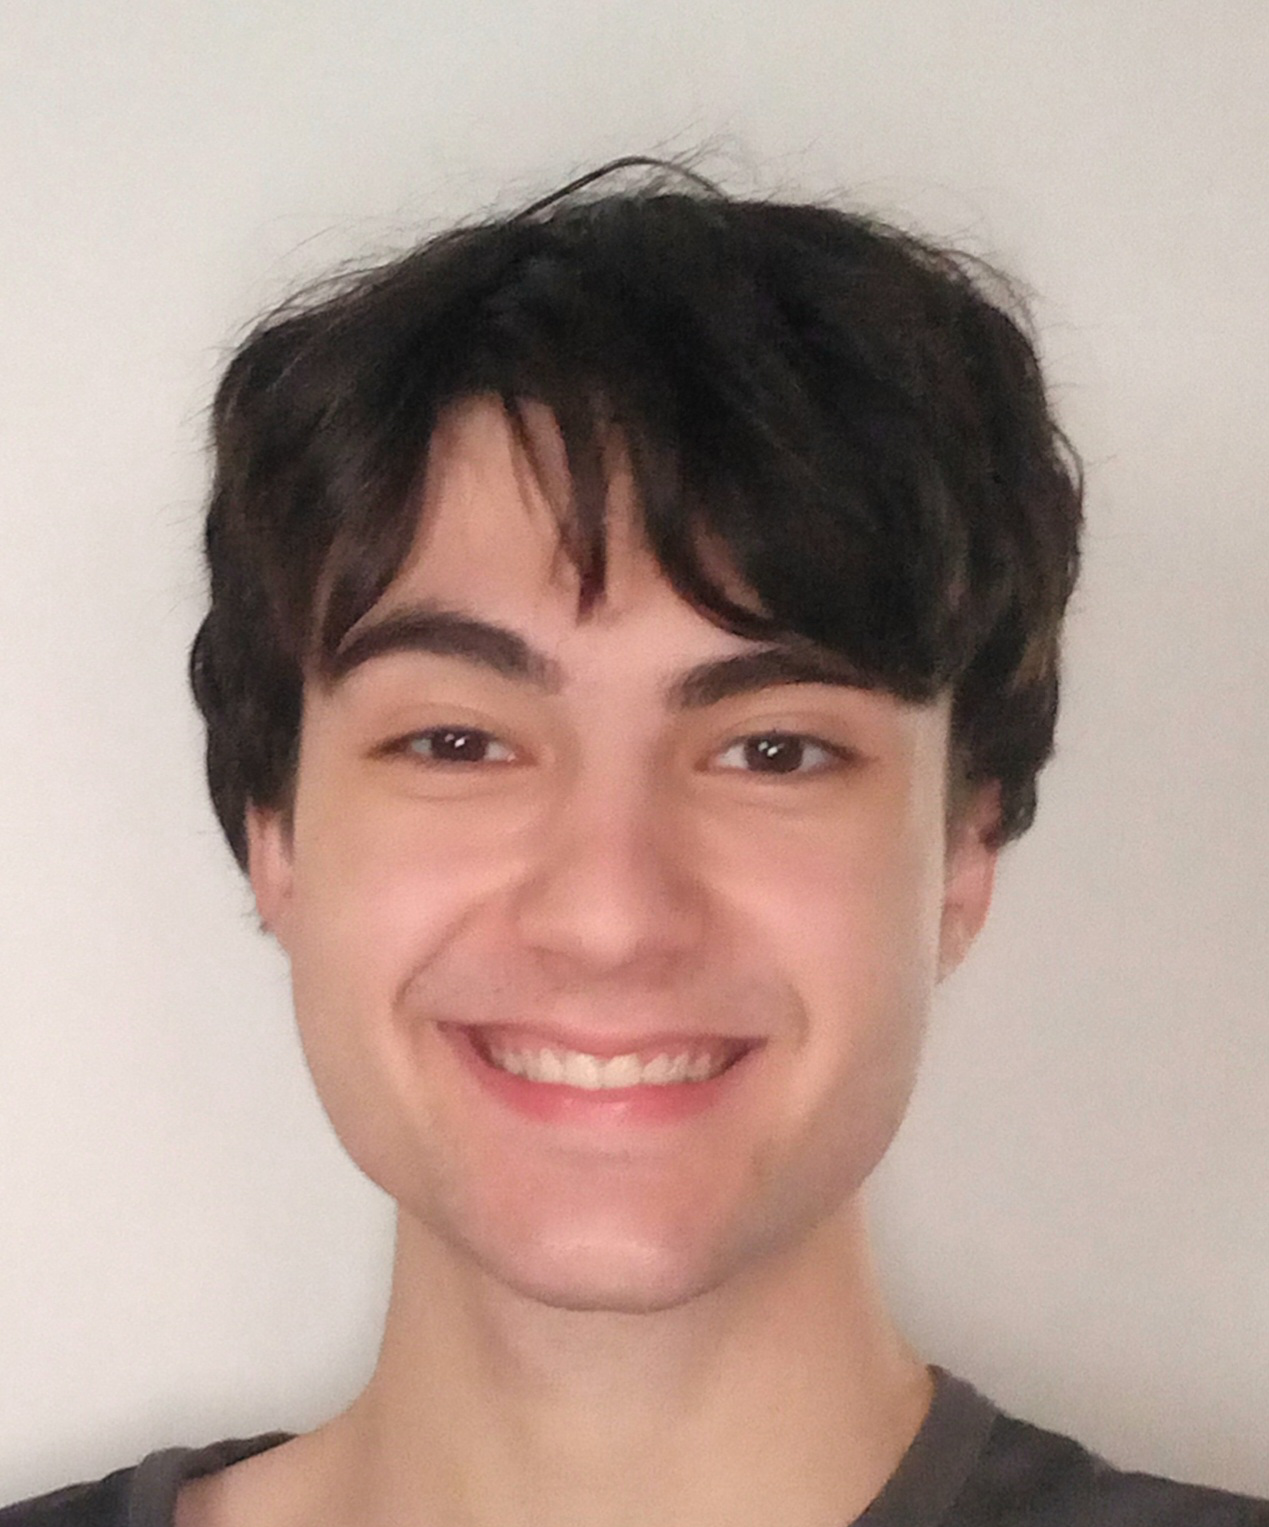
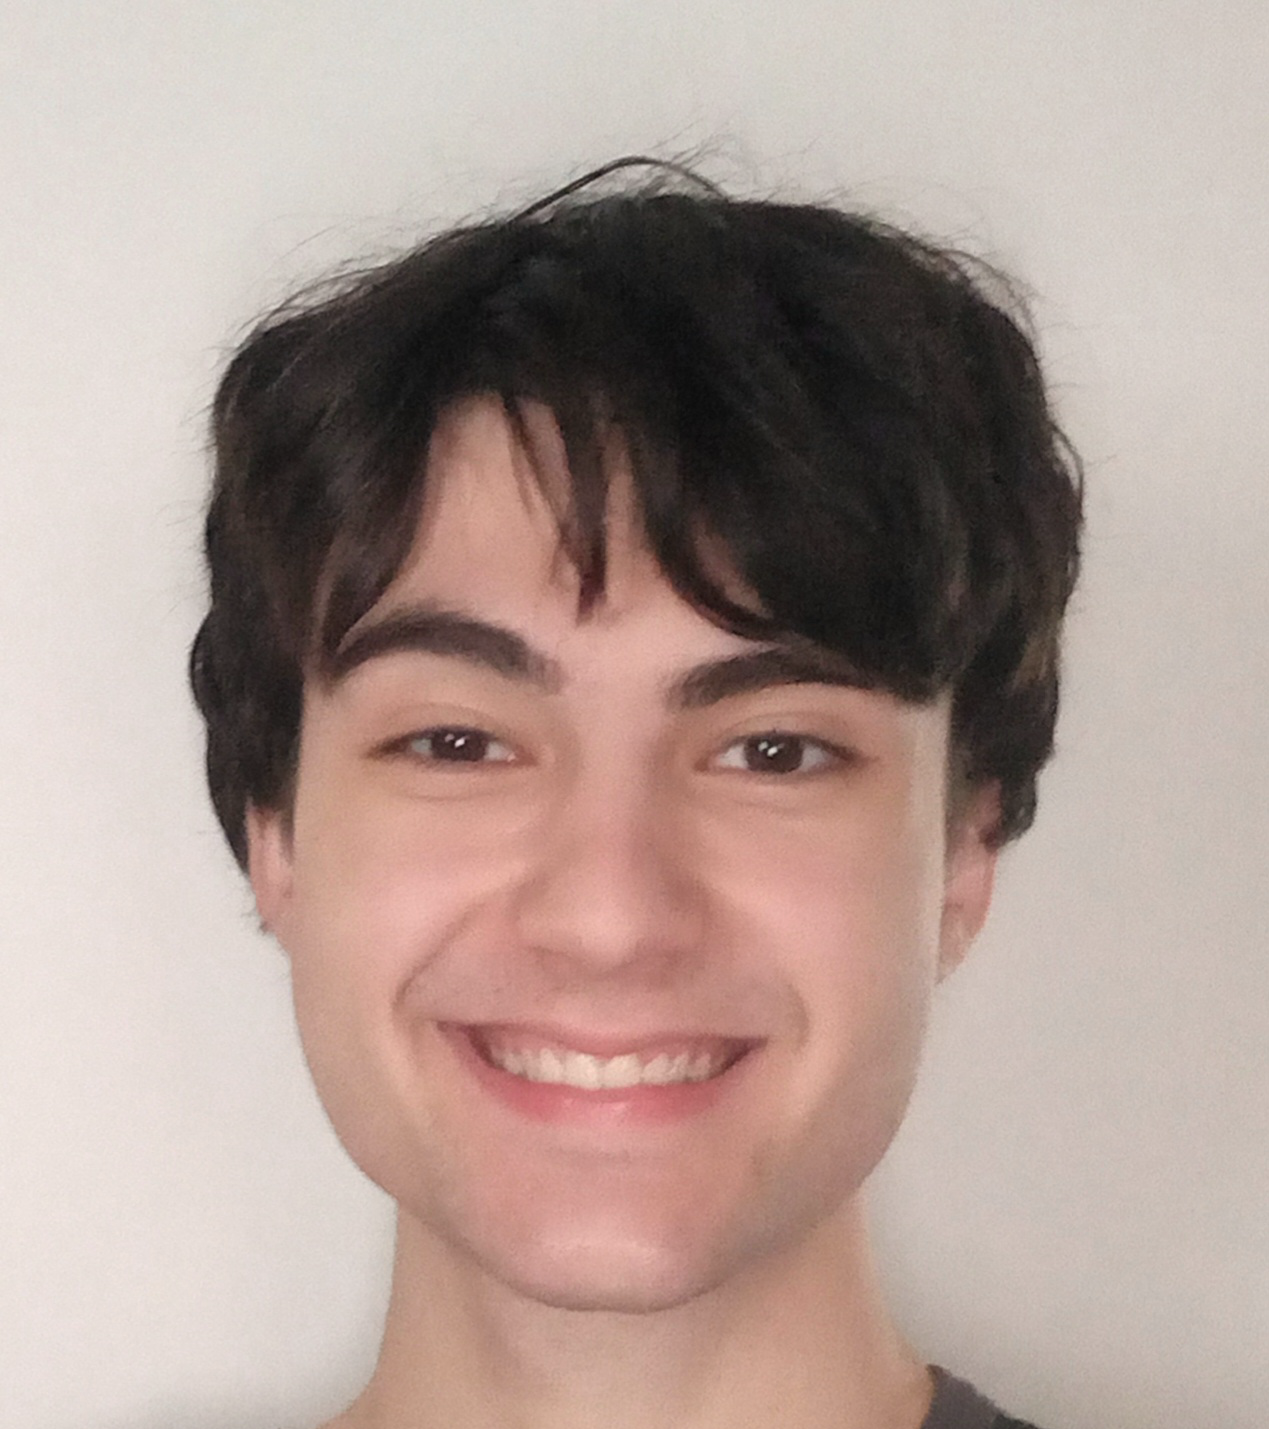
ajustando tamanho das caixas de certificado denovo, ajustando ft de perfil, arrumando tradução bugada

Changed region(s): [[0.0, 0.0924, 1.0, 1.0], [0.3688, 0.9237, 0.3995, 0.9853]]

diff --git a/index.html b/index.html
@@ -207,18 +207,18 @@
         }
 
         .education-item-with-cert.large {
-            padding: 20px;
-            min-height: 120px;
-        }
-
-        .education-item-with-cert.medium {
             padding: 15px;
             min-height: 90px;
         }
 
-        .education-item-with-cert.small {
+        .education-item-with-cert.medium {
             padding: 10px;
-            min-height: 70px;
+            min-height: 60px;
+        }
+
+        .education-item-with-cert.small {
+            padding: 5px;
+            min-height: 40px;
         }
 
         .education-content {
@@ -310,7 +310,7 @@
         </div>
 
         <header>
-            <img src="foto-perfil.jpg" alt="Foto de Kelvin Krauss" class="profile-photo" id="profile-photo">
+            <img src="foto-perfil.png" alt="Foto de Kelvin Krauss" class="profile-photo" id="profile-photo">
             <h1>Kelvin Krauss</h1>
             <p class="subtitle">Bacharelando em Ciência da Computação</p>
             
@@ -321,6 +321,10 @@
 
             <div class="professional-objective">
                 <p>Sou estudante de Ciências da Computação no Instituto Federal Catarinense, lido bem com Java, JavaScript e Python. Sempre buscando aprender sobre novas tecnologias.</p>
+            </div>
+
+             <div class="professional-objective">
+                <p>No meu Github está presente alguns projetos como um aplicativo de controle de transações financeiras com orientação a objetos em Java, um sistema de catálogo e simulação de pedidos com persistência em H2 Database, microsserviços com Spring Boot (Eureka Server, API Gateway, serviços independentes), uso via Postman, e um jogo da forca em console Java, com estrutura modular e representação gráfica em ASCII. </p>
             </div>
 
             <div class="social-buttons">

diff --git a/index-en.html b/index-en.html
@@ -207,18 +207,18 @@
         }
 
         .education-item-with-cert.large {
-            padding: 20px;
-            min-height: 120px;
-        }
-
-        .education-item-with-cert.medium {
             padding: 15px;
             min-height: 90px;
         }
 
-        .education-item-with-cert.small {
+        .education-item-with-cert.medium {
             padding: 10px;
-            min-height: 70px;
+            min-height: 60px;
+        }
+
+        .education-item-with-cert.small {
+            padding: 5px;
+            min-height: 40px;
         }
 
         .education-content {
@@ -310,7 +310,7 @@
         </div>
 
         <header>
-            <img src="foto-perfil.jpg" alt="Kelvin Krauss Photo" class="profile-photo" id="profile-photo">
+            <img src="foto-perfil.png" alt="Kelvin Krauss Photo" class="profile-photo" id="profile-photo">
             <h1>Kelvin Krauss</h1>
             <p class="subtitle">Computer Science Student</p>
             
@@ -321,6 +321,10 @@
 
             <div class="professional-objective">
                 <p>I am a Computer Science student at Instituto Federal Catarinense, skilled in Java, JavaScript and Python. Always seeking to learn about new technologies.</p>
+            </div>
+
+             <div class="professional-objective">
+                <p>On my GitHub, there are several projects, including a financial transaction management application using object-oriented programming in Java, a product catalog and order simulation system with persistence using H2 Database, microservices with Spring Boot (Eureka Server, API Gateway, independent services), and usage via Postman, and a console-based Hangman game in Java, featuring a modular structure and ASCII graphical representation.</p>
             </div>
 
             <div class="social-buttons">
